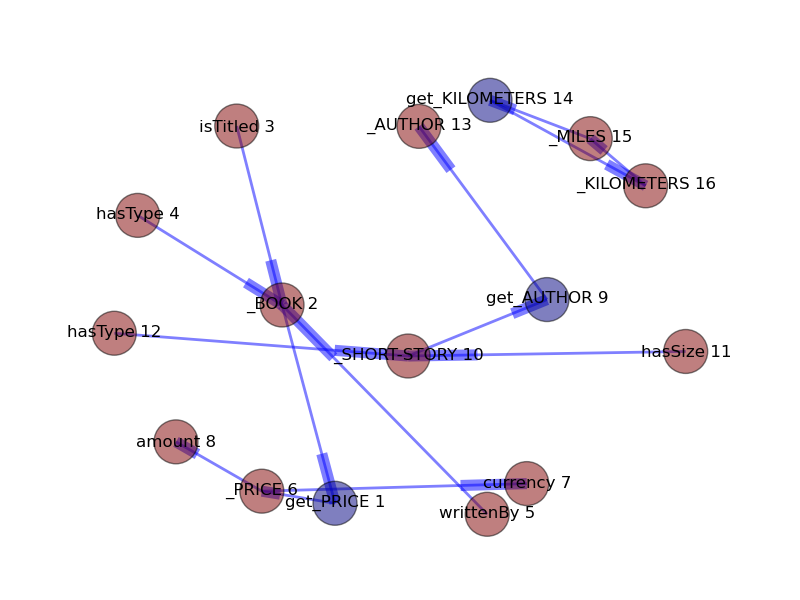
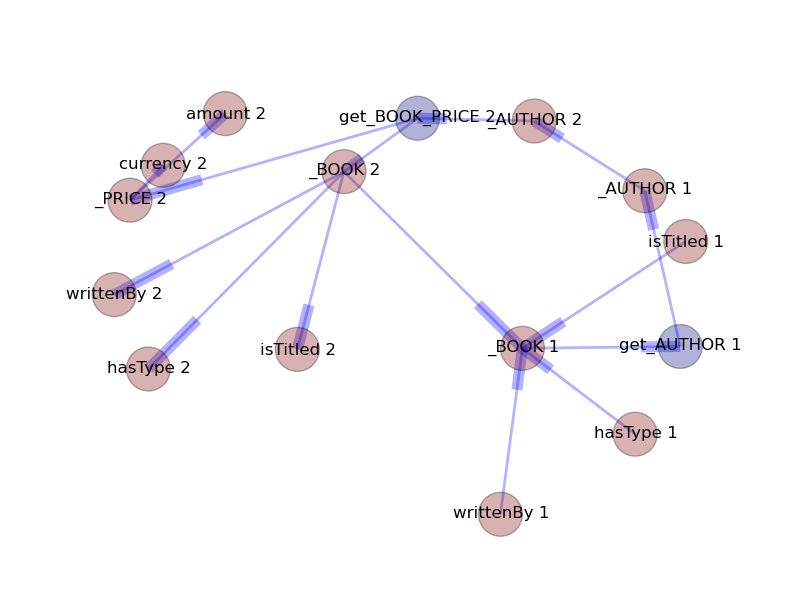
sdg done

diff --git a/lib/plotter.py b/lib/plotter.py
@@ -21,27 +21,49 @@ class Plot():
             else:
                 self.node_color.append(2.0)
 
-        nx.draw(self.G,node_color=self.node_color,node_size=self.node_size,width=2,alpha=0.5,edge_color='b')
+        nx.draw(self.G,node_color=self.node_color,node_size=self.node_size,width=2,alpha=0.3,edge_color='b')
         plt.savefig("joker.png")
 
         plt.show()
 
     def __wsdl__(self,wsdl):
-        wsdl=Wsdl(wsdl)
-        data=wsdl.operation
+        data=wsdl.nodes
         operation=data['nodes']['operation']
         input_nodes=data['nodes']['input']
         output_nodes=data['nodes']['output']
 
-        operation_node=self.create_node(operation)
-        self.operation_connect(operation_node,input_nodes,True)
-        self.operation_connect(operation_node,output_nodes,False)
+        operation_node=self.node_name(operation,wsdl.id)
+        self.operation_connect(operation_node,input_nodes,wsdl.id,True)
+        self.operation_connect(operation_node,output_nodes,wsdl.id,False)
         self.operation_nodes.append(operation_node)
 
-    def wsdl_connect(self,wsdl_input,wsdl_output):
-        input_operation=Wsdl(wsdl_input).operation
-        output_operation=Wsdl(wsdl_output).operation
+    def operation_connect(self,operation_node,nodes,id,isInward=True):
+        #self.node_color.append(1.0)
+        for node in nodes:
+            data_node=self.node_name(node['name'],id)
+            if isInward:
+                self.G.add_edge(data_node,operation_node)
+            else:
+                self.G.add_edge(operation_node,data_node)
+            self.data_node_connect(data_node,node,id,isInward)
 
+    def data_node_connect(self,center,nodes,id, isInward=True):
+        if nodes.has_key("name"):
+            del(nodes['name'])
+        for node in nodes.iterkeys():
+            #self.node_color.append(2.0)
+            if node != " ".join(center.split(" ")[:1]):
+                new_node=self.node_name(node,id)
+                if not isInward:
+                    self.G.add_edge(center,new_node)
+                else:
+                    self.G.add_edge(new_node,center)
+                self.data_node_connect(new_node, nodes[node],isInward)
+
+    def wsdl_connect(self,wsdl_input,wsdl_output):
+        input_operation=wsdl_input.operation()
+        output_operation=wsdl_output.operation()
+        print input_operation,output_operation
         input_nodes=[]
         for __input__ in input_operation['nodes']['input']:
             input_nodes.append(__input__['name'])
@@ -54,49 +76,23 @@ class Plot():
             del(__output__['name'])
             basic.dict_to_list(__output__,input_nodes)
 
-        print input_nodes,output_nodes
         for input_node in input_nodes:
             for output_node in output_nodes:
-                if Similarity.sentences(input_node,output_node) > config.threshold:
+                print Similarity(input_node,output_node).value, input_node,output_node
+                if Similarity(input_node,output_node).value > config.threshold:
+                #if True:
                     print "DRAW",input_node, output_node
-                    self.G.add_edge(self.search_node(output_node),self.search_node(input_node))
+                    self.G.add_edge(self.node_name(output_node,wsdl_output.id),self.node_name(input_node,wsdl_input.id))
 
-        #todo connect wsdls
+    def node_name(self,name,id):
+        return name+" "+str(id)
 
-    def operation_connect(self,operation_node,nodes,isInward=True):
-        #self.node_color.append(1.0)
-        for node in nodes:
-            data_node=self.create_node(node['name'])
-            if isInward:
-                self.G.add_edge(data_node,operation_node)
-            else:
-                self.G.add_edge(operation_node,data_node)
-            self.data_node_connect(data_node,node,isInward)
-
-    def data_node_connect(self,center,nodes, isInward=True):
-        if nodes.has_key("name"):
-            del(nodes['name'])
-        for node in nodes.iterkeys():
-            #self.node_color.append(2.0)
-            if node != self.node_name(center):
-                new_node=self.create_node(node)
-                if not isInward:
-                    self.G.add_edge(center,new_node)
-                else:
-                    self.G.add_edge(new_node,center)
-                self.data_node_connect(new_node, nodes[node],isInward)
-
-    def create_node(self,name):
-        self.id+=1
-        return name+" "+str(self.id)
-
-    def search_node(self,node):
-        for v in self.G.nodes():
-            print v, node
-            if node == self.node_name(str(v)):
-                return v
-        return None
-
-    @staticmethod
-    def node_name(node):
-        return " ".join(node.split(" ")[:1])
+    #def search_node(self,node):
+    #    for v in self.G.nodes():
+    #        if node == self.node_name(str(v)):
+    #            return v
+    #    return None
+    #
+    #@staticmethod
+    #def node_name(node):
+    #    return " ".join(node.split(" ")[:1])

diff --git a/run.py b/run.py
@@ -1,20 +1,24 @@
 import config
 import os
 from lib.plotter import Plot
-
+from lib.wsdl import Wsdl
 plotter = Plot()
 #p.__wsdl__(config.res+"/test.wsdl")
 wsdls=[]
+id=1
+#for _file in os.listdir(config.res+"/wsdl"):
+#    wsdls.append(Wsdl(config.res+"wsdl/"+_file))
+#for _file in [config.res+"wsdl/BookAuthor.wsdl",config.res+"wsdl/author_bookprice_service.wsdl"]:
 for _file in os.listdir(config.res+"/wsdl"):
-    wsdls.append(config.res+"wsdl/"+_file)
+    wsdls.append(Wsdl(config.res+"wsdl/"+_file,id))
+    id+=1
 
 # first draw all wsdls
-for wsdl in [ wsdls[0],wsdls[1],wsdls[2]]:
-    print wsdl
+for wsdl in wsdls:
     plotter.__wsdl__(wsdl)
 
-for wsdl1 in [ wsdls[0],wsdls[1],wsdls[2]]:
-    for wsdl2 in [ wsdls[0],wsdls[1],wsdls[2]]:
+for wsdl1 in wsdls:
+    for wsdl2 in wsdls:
         plotter.wsdl_connect(wsdl1,wsdl2)
 
 #for wsdl1 in wsdls:

diff --git a/lib/similarity.py b/lib/similarity.py
@@ -4,14 +4,14 @@ import sqlite3
 from config import DB
 
 class Similarity():
-    def __init__(self):
-        pass
+    def __init__(self,sentence1,sentence2):
+        self.value=self.sentences(sentence1,sentence2)
 
     def words(self,word1,word2):
         word1=word1.lower()
         word2=word2.lower()
         if word1==word2:
-            return 0
+            return 1.0
         #if already in database return
         similarity_pre_calculated=self.get_from_db(word1,word2)
         if similarity_pre_calculated in ["-2","-2.0",-2.0]:

diff --git a/lib/wsdl.py b/lib/wsdl.py
@@ -1,10 +1,11 @@
 import xml.dom.minidom as dom
 
 class Wsdl():
-    def __init__(self, wsdl):
+    def __init__(self, wsdl,id):
         self.tree = dom.parse(wsdl)
         self.file_name = wsdl
-        self.operation = self.operation()
+        self.nodes = self.operation()
+        self.id = id
         #self.documentation = self.documentation()
         #self.all_tokens, self.service_tokens, self.operation_tokens, self.message_tokens, self.type_tokens, self.documentation_token = self.get_all_tokens()
 

diff --git a/config.py b/config.py
@@ -1,4 +1,4 @@
 res = "res/"
 
-threshold=0.5
+threshold=0.6
 DB=res+"ngd.db"
